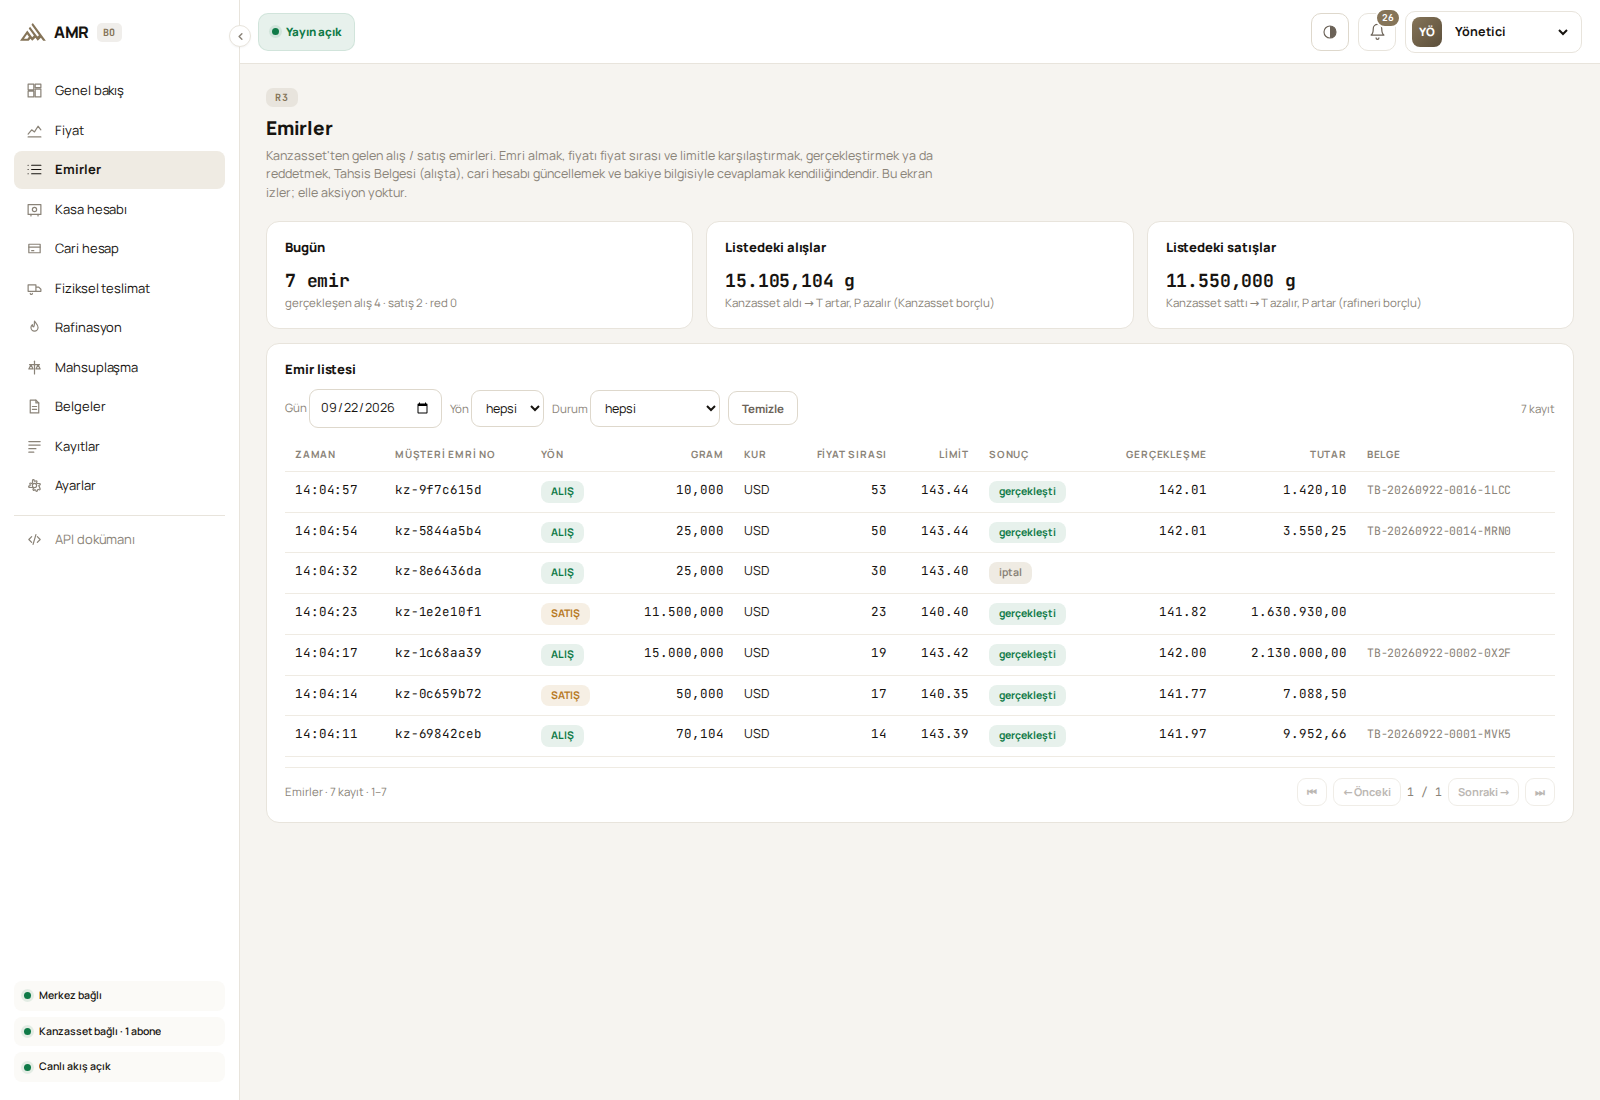
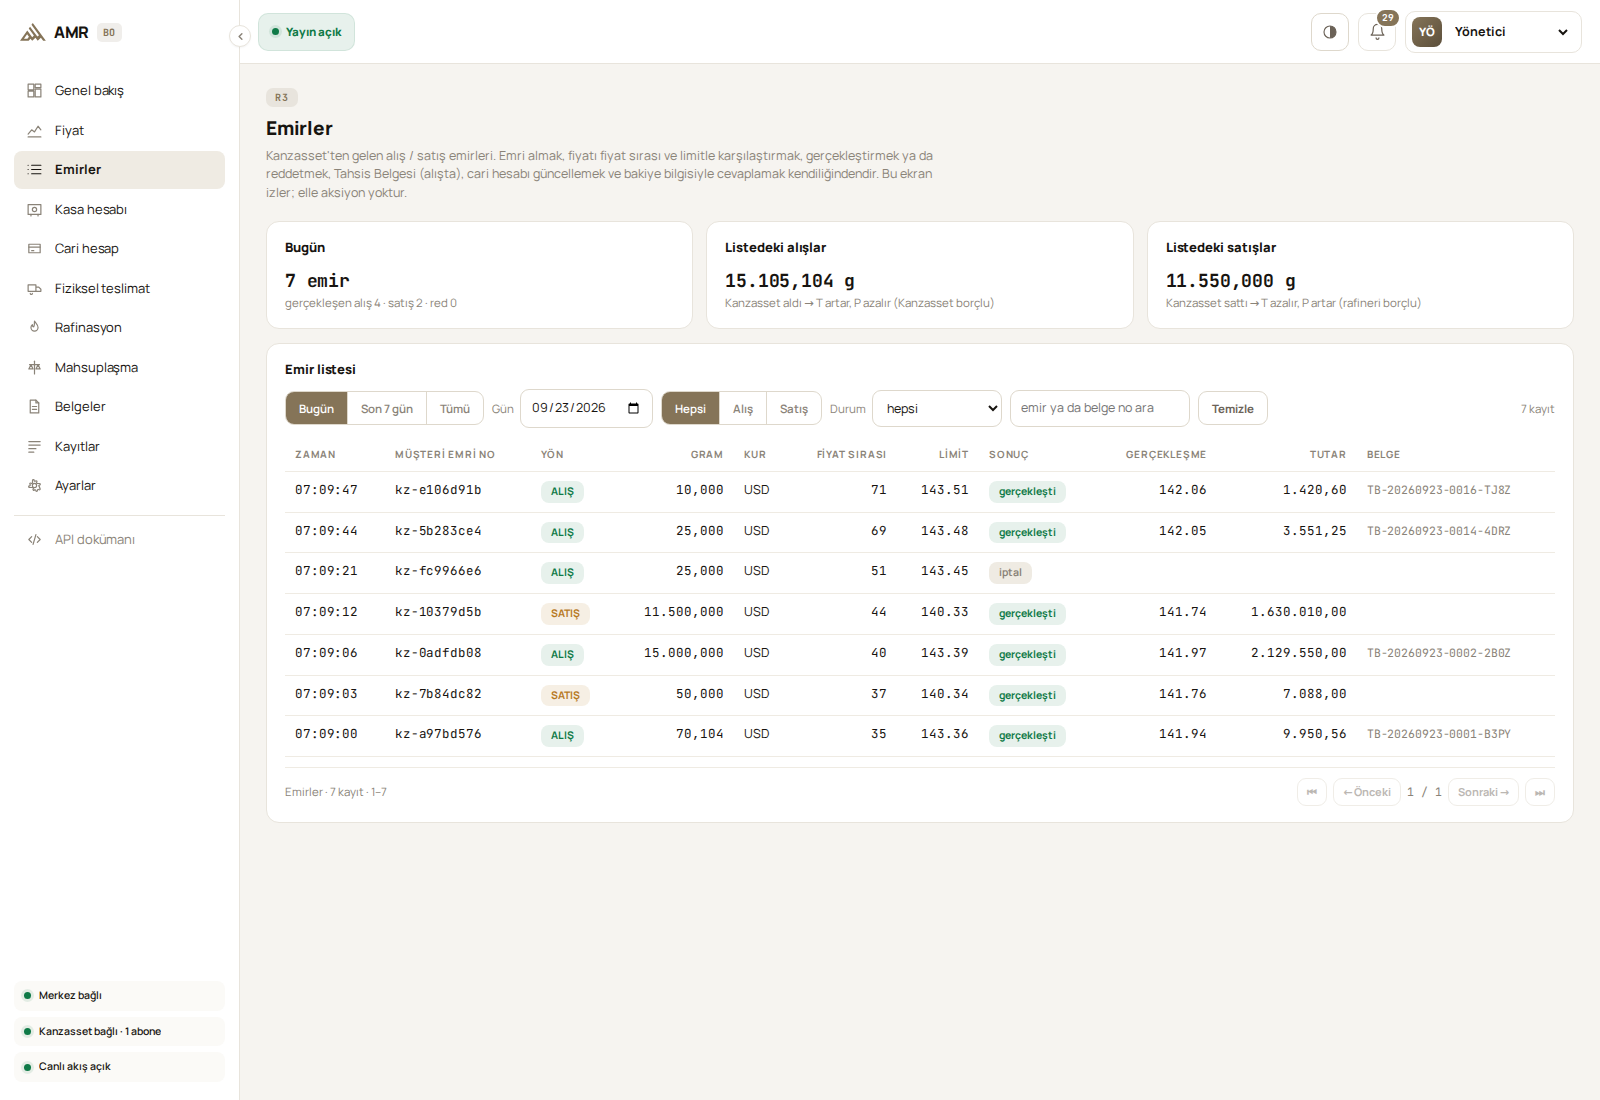
Emir süzgeçleri kolaylaştı, kasa hesabı listeleri alt alta
- Emir listesi: dönem düğmeleri (Bugün / Son 7 gün / Tümü) + gün seçici, yön düğmeleri
  (Hepsi / Alış / Satış), durum listesi ve metin araması (emir ya da belge no).
  Tek gün sunucuda, dönem ve metin ekranda süzülür; sayaç kaç kayıt kaldığını yazar
- Kasa hesabı: kasa hareketleri tam genişlikte 10 satır, altında işlenen talepler 10 satır,
  ikisinde de sayfa geçişi; günlük kasa ekstresi (imzalı rezerv kanıtı) en altta
- Geniş tablolar kart içinde yatay kayar, dar pencerede sayfa taşmaz

Claude-Session: https://claude.ai/code/session_01FHsuXnfTh4Mk49Rpn4YzXE

diff --git a/apps/amr-web/src/pages/R4Vault.tsx b/apps/amr-web/src/pages/R4Vault.tsx
@@ -33,8 +33,8 @@ export function R4Vault({ live }: { live: Live }) {
   const acc = v?.account ?? live.overview?.account;
   const vaultTotal = acc ? acc.vault.in_vault_mg + acc.vault.placing_mg + acc.vault.shipping_mg : 0;
 
-  const pMov = usePager(v?.movements ?? [], 20);
-  const pReq = usePager(v?.requests ?? [], 20);
+  const pMov = usePager(v?.movements ?? [], 10);
+  const pReq = usePager(v?.requests ?? [], 10);
   return (
     <div>
       <span className="tag">R4</span>
@@ -128,45 +128,24 @@ export function R4Vault({ live }: { live: Live }) {
         </table>
       </section>
 
-      <div className="grid c2" style={{ marginBottom: 14 }}>
-        <section className="card">
-          <h2>Kasa hareketleri</h2>
-          <table>
-            <thead><tr><th className="num">Sıra</th><th>Zaman</th><th>Tür</th><th className="num">Kasada</th><th className="num">Konuluyor</th><th className="num">Sevkiyatta</th></tr></thead>
-            <tbody>
-              {(v?.movements.length ?? 0) === 0 && <tr><td colSpan={6} className="small">Hareket yok</td></tr>}
-              {pMov.slice.map((m) => (
-                <tr key={m.id}>
-                  <td className="num">{m.seq}</td><td className="mono">{fmtTime(m.ts)}</td><td>{VAULT_MOVE_TR[m.type] ?? m.type}</td>
-                  <td className="num mono">{m.in_vault_mg ? `${m.in_vault_mg > 0 ? "+" : ""}${fmtG(m.in_vault_mg)}` : ""}</td>
-                  <td className="num mono">{m.placing_mg ? `${m.placing_mg > 0 ? "+" : ""}${fmtG(m.placing_mg)}` : ""}</td>
-                  <td className="num mono">{m.shipping_mg ? `${m.shipping_mg > 0 ? "+" : ""}${fmtG(m.shipping_mg)}` : ""}</td>
-                </tr>
-              ))}
-            </tbody>
-          </table>
-          <Pager p={pMov} label="Hareketler" />
-        </section>
-
-        <section className="card">
-          <h2>Günlük kasa ekstresi</h2>
-          <p className="small">Rezerv kanıtı: gün içi kasa hareketleri, açılış ve kapanış alt kalemleri, fiş referansları ve imza. Kanzasset `GET /v1/vault/statement` ile aynı ekstreyi çeker.</p>
-          <div className="row"><button className="primary" onClick={async () => setStmt(await api.vaultStatement())}>Bugünün ekstresini çıkar</button></div>
-          {stmt && (
-            <div style={{ marginTop: 10 }}>
-              <div className="kv">
-                <span className="k">Tarih</span><span className="mono">{stmt.date}</span>
-                <span className="k">Açılış</span><span className="mono">{fmtG(stmt.opening.in_vault_mg)} · {fmtG(stmt.opening.placing_mg)} · {fmtG(stmt.opening.shipping_mg)} g</span>
-                <span className="k">Kapanış</span><span className="mono">{fmtG(stmt.closing.in_vault_mg)} · {fmtG(stmt.closing.placing_mg)} · {fmtG(stmt.closing.shipping_mg)} g</span>
-                <span className="k">Toplam (V)</span><span className="mono">{fmtG(stmt.total_mg)} g</span>
-                <span className="k">Hareket</span><span>{stmt.movements.length}</span>
-                <span className="k">Fişler</span><span className="mono small">{stmt.slips.map((s) => s.doc_id).join(", ") || "yok"}</span>
-                <span className="k">İmza</span><span className="mono small" style={{ wordBreak: "break-all" }}>{stmt.signature.slice(0, 32)}…</span>
-              </div>
-            </div>
-          )}
-        </section>
-      </div>
+      <section className="card" style={{ marginBottom: 14 }}>
+        <h2>Kasa hareketleri</h2>
+        <table>
+          <thead><tr><th className="num">Sıra</th><th>Zaman</th><th>Tür</th><th className="num">Kasada</th><th className="num">Konuluyor</th><th className="num">Sevkiyatta</th></tr></thead>
+          <tbody>
+            {(v?.movements.length ?? 0) === 0 && <tr><td colSpan={6} className="small">Hareket yok</td></tr>}
+            {pMov.slice.map((m) => (
+              <tr key={m.id}>
+                <td className="num">{m.seq}</td><td className="mono">{fmtTime(m.ts)}</td><td>{VAULT_MOVE_TR[m.type] ?? m.type}</td>
+                <td className="num mono">{m.in_vault_mg ? `${m.in_vault_mg > 0 ? "+" : ""}${fmtG(m.in_vault_mg)}` : ""}</td>
+                <td className="num mono">{m.placing_mg ? `${m.placing_mg > 0 ? "+" : ""}${fmtG(m.placing_mg)}` : ""}</td>
+                <td className="num mono">{m.shipping_mg ? `${m.shipping_mg > 0 ? "+" : ""}${fmtG(m.shipping_mg)}` : ""}</td>
+              </tr>
+            ))}
+          </tbody>
+        </table>
+        <Pager p={pMov} label="Hareketler" />
+      </section>
 
       <section className="card">
         <h2>İşlenen talepler</h2>
@@ -188,6 +167,25 @@ export function R4Vault({ live }: { live: Live }) {
           </tbody>
         </table>
         <Pager p={pReq} label="Talepler" />
+      </section>
+
+      <section className="card" style={{ marginTop: 14 }}>
+        <h2>Günlük kasa ekstresi</h2>
+        <p className="small">Rezerv kanıtı: gün içi kasa hareketleri, açılış ve kapanış alt kalemleri, fiş referansları ve imza. Kanzasset `GET /v1/vault/statement` ile aynı ekstreyi çeker.</p>
+        <div className="row"><button className="primary" onClick={async () => setStmt(await api.vaultStatement())}>Bugünün ekstresini çıkar</button></div>
+        {stmt && (
+          <div style={{ marginTop: 10 }}>
+            <div className="kv">
+              <span className="k">Tarih</span><span className="mono">{stmt.date}</span>
+              <span className="k">Açılış</span><span className="mono">{fmtG(stmt.opening.in_vault_mg)} · {fmtG(stmt.opening.placing_mg)} · {fmtG(stmt.opening.shipping_mg)} g</span>
+              <span className="k">Kapanış</span><span className="mono">{fmtG(stmt.closing.in_vault_mg)} · {fmtG(stmt.closing.placing_mg)} · {fmtG(stmt.closing.shipping_mg)} g</span>
+              <span className="k">Toplam (V)</span><span className="mono">{fmtG(stmt.total_mg)} g</span>
+              <span className="k">Hareket</span><span>{stmt.movements.length}</span>
+              <span className="k">Fişler</span><span className="mono small">{stmt.slips.map((s) => s.doc_id).join(", ") || "yok"}</span>
+              <span className="k">İmza</span><span className="mono small" style={{ wordBreak: "break-all" }}>{stmt.signature.slice(0, 32)}…</span>
+            </div>
+          </div>
+        )}
       </section>
 
       {rejecting && (

diff --git a/apps/amr-web/src/pages/R3Orders.tsx b/apps/amr-web/src/pages/R3Orders.tsx
@@ -7,21 +7,32 @@ const today = () => new Date().toISOString().slice(0, 10);
 
 /** R3 Emirler: KZ'den gelen alış / satış emirleri. Fill, red ve iptal otomatiktir; ekran izler. */
 export function R3Orders({ live }: { live: Live }) {
+  /** Dönem: bugün · son 7 gün · tümü · seçilen gün. Gün seçilince dönem "gun" olur. */
+  const [period, setPeriod] = useState<"bugun" | "7gun" | "tumu" | "gun">("bugun");
   const [day, setDay] = useState(today());
   const [side, setSide] = useState("");
   const [status, setStatus] = useState("");
+  const [q, setQ] = useState("");
   const [orders, setOrders] = useState<Order[]>([]);
   const [sel, setSel] = useState<Order | null>(null);
   const [doc, setDoc] = useState<Doc | null>(null);
 
-  const load = () => api.orders({ day: day || undefined, side: side || undefined, status: status || undefined, limit: 300 }).then(setOrders).catch(console.warn);
-  useEffect(() => { load(); }, [day, side, status]);
+  /** Tek gün sunucuda süzülür; dönem seçiliyse liste geniş çekilip ekranda süzülür. */
+  const dayParam = period === "bugun" ? today() : period === "gun" ? day : undefined;
+  const load = () => api.orders({ day: dayParam, side: side || undefined, status: status || undefined, limit: 500 }).then(setOrders).catch(console.warn);
+  useEffect(() => { load(); }, [period, day, side, status]);
   useEffect(() => { if (live.lastOrder) load(); }, [live.lastOrder]);
   useEffect(() => { setDoc(null); if (sel?.allocation_certificate) api.document(sel.allocation_certificate.doc_id).then(setDoc).catch(() => setDoc(null)); }, [sel?.order_id]);
 
   const t = live.overview?.orders_today;
-  const filled = orders.filter((o) => o.status === "FILLED");
-  const p = usePager(orders, 20, `${day}|${side}|${status}`);
+  /** Son 7 gün ve metin araması ekranda süzülür: sunucuya her tuşta istek gitmez. */
+  const since = period === "7gun" ? Date.now() - 7 * 86_400_000 : 0;
+  const text = q.trim().toLowerCase();
+  const list = orders.filter((o) =>
+    (!since || Date.parse(o.received_ts) >= since) &&
+    (!text || o.client_order_id.toLowerCase().includes(text) || o.order_id.toLowerCase().includes(text) || (o.allocation_certificate?.doc_id ?? "").toLowerCase().includes(text)));
+  const filled = list.filter((o) => o.status === "FILLED");
+  const p = usePager(list, 20, `${period}|${day}|${side}|${status}|${text}`);
   const sumMg = (s: "BUY" | "SELL") => filled.filter((o) => o.side === s).reduce((a, o) => a + o.qty_mg, 0);
 
   return (
@@ -38,17 +49,31 @@ export function R3Orders({ live }: { live: Live }) {
 
       <section className="card">
         <h2>Emir listesi</h2>
-        <div className="row" style={{ marginBottom: 10 }}>
-          <label className="small">Gün <input type="date" value={day} onChange={(e) => setDay(e.target.value)} /></label>
-          <label className="small">Yön <select value={side} onChange={(e) => setSide(e.target.value)}><option value="">hepsi</option><option value="BUY">alış</option><option value="SELL">satış</option></select></label>
-          <label className="small">Durum <select value={status} onChange={(e) => setStatus(e.target.value)}><option value="">hepsi</option><option value="FILLED">gerçekleşti</option><option value="REJECTED">reddedildi</option><option value="CANCELLED">iptal</option><option value="RECEIVED">alındı (bekliyor)</option></select></label>
-          <button className="ghost" onClick={() => { setDay(""); setSide(""); setStatus(""); }}>Temizle</button>
-          <span className="small" style={{ marginLeft: "auto" }}>{orders.length} kayıt</span>
+        <div className="filters" style={{ marginBottom: 10 }}>
+          <div className="seg">
+            <button className={period === "bugun" ? "on" : ""} onClick={() => setPeriod("bugun")}>Bugün</button>
+            <button className={period === "7gun" ? "on" : ""} onClick={() => setPeriod("7gun")}>Son 7 gün</button>
+            <button className={period === "tumu" ? "on" : ""} onClick={() => setPeriod("tumu")}>Tümü</button>
+          </div>
+          <label>Gün <input type="date" value={day} onChange={(e) => { setDay(e.target.value); setPeriod(e.target.value ? "gun" : "tumu"); }} /></label>
+          <div className="seg">
+            <button className={side === "" ? "on" : ""} onClick={() => setSide("")}>Hepsi</button>
+            <button className={side === "BUY" ? "on" : ""} onClick={() => setSide("BUY")}>Alış</button>
+            <button className={side === "SELL" ? "on" : ""} onClick={() => setSide("SELL")}>Satış</button>
+          </div>
+          <label>Durum
+            <select value={status} onChange={(e) => setStatus(e.target.value)}>
+              <option value="">hepsi</option><option value="FILLED">gerçekleşti</option><option value="REJECTED">reddedildi</option><option value="CANCELLED">iptal</option><option value="RECEIVED">alındı (bekliyor)</option>
+            </select>
+          </label>
+          <input placeholder="emir ya da belge no ara" value={q} onChange={(e) => setQ(e.target.value)} style={{ minWidth: 180 }} />
+          <button className="ghost" onClick={() => { setPeriod("bugun"); setDay(today()); setSide(""); setStatus(""); setQ(""); }}>Temizle</button>
+          <span className="small" style={{ marginLeft: "auto" }}>{list.length} kayıt{list.length !== orders.length ? ` (${orders.length} içinden)` : ""}</span>
         </div>
         <table>
           <thead><tr><th>Zaman</th><th>Müşteri emri no</th><th>Yön</th><th className="num">Gram</th><th>Kur</th><th className="num">Fiyat sırası</th><th className="num">Limit</th><th>Sonuç</th><th className="num">Gerçekleşme</th><th className="num">Tutar</th><th>Belge</th></tr></thead>
           <tbody>
-            {orders.length === 0 && <tr><td colSpan={11} className="small">Kayıt yok</td></tr>}
+            {list.length === 0 && <tr><td colSpan={11} className="small">Kayıt yok</td></tr>}
             {p.slice.map((o) => (
               <tr key={o.order_id} onClick={() => setSel(o)} style={{ cursor: "pointer", background: sel?.order_id === o.order_id ? "var(--sel)" : undefined }}>
                 <td className="mono">{fmtTime(o.received_ts)}</td>

diff --git a/apps/amr-web/src/styles.css b/apps/amr-web/src/styles.css
@@ -145,6 +145,14 @@ button.primary:hover:not(:disabled){background:var(--accent-hover);color:#fff}
 button.danger{background:var(--bad);color:#fff;border-color:var(--bad)}
 button.danger:hover:not(:disabled){background:#A93226;color:#fff}
 button.ghost{background:transparent}
+/* açık kapalı düğme kümesi: yön ve dönem süzgeçleri */
+.seg{display:inline-flex;border:1px solid var(--line3);border-radius:9px;overflow:hidden;height:34px}
+.seg button{border:0;border-radius:0;height:32px;background:transparent;color:var(--mut);font-weight:600}
+.seg button+button{border-left:1px solid var(--line3)}
+.seg button.on{background:var(--accent);color:#fff}
+.seg button.on:hover{background:var(--accent-hover);color:#fff}
+.filters{display:flex;flex-wrap:wrap;gap:8px;align-items:center}
+.filters label{display:flex;align-items:center;gap:6px;font-size:11.5px;color:var(--mut)}
 button:disabled{opacity:.45;cursor:not-allowed}
 
 /* ---- tablolar ---- */
